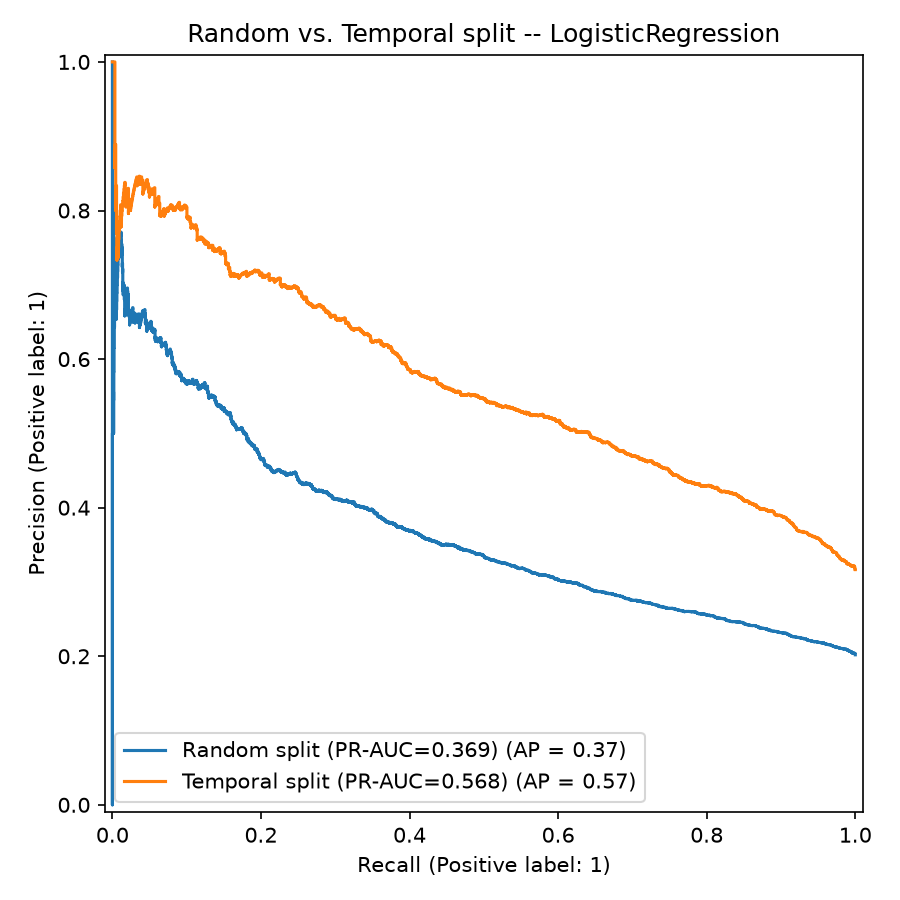
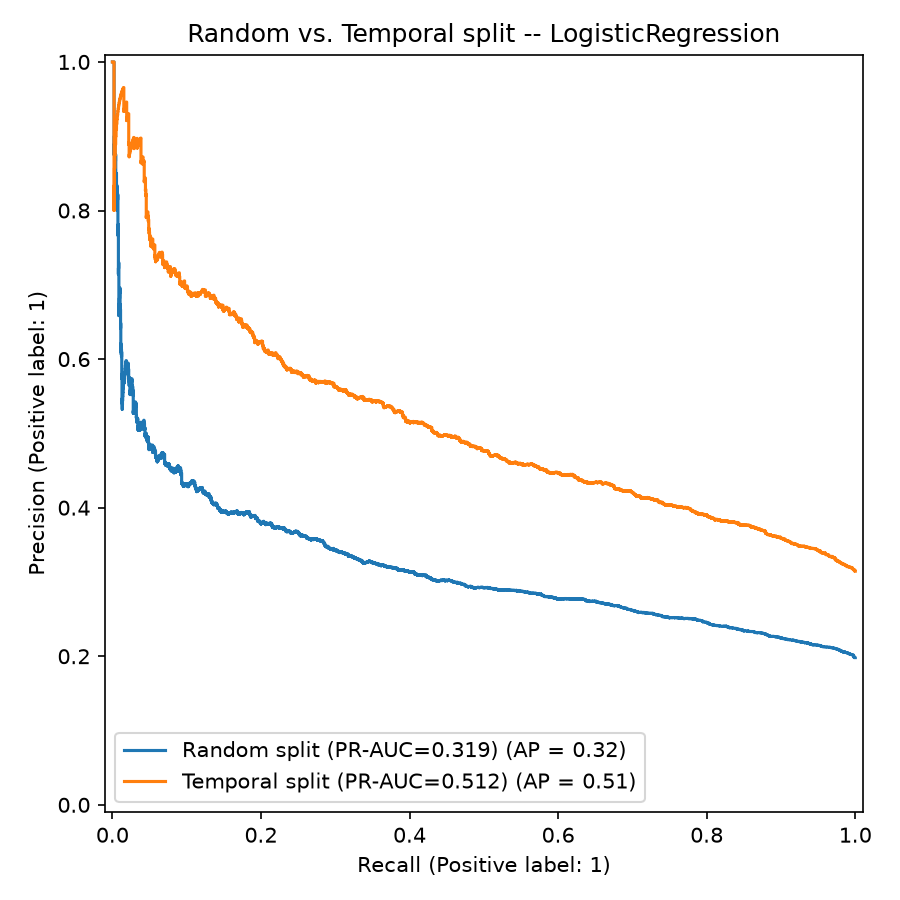
fix: sponsor history point-in-time fix, retrain v45

diff --git a/domains/pharma/dataset_builder.py b/domains/pharma/dataset_builder.py
@@ -60,19 +60,50 @@ primary_condition AS (
     ) ranked
     WHERE rn = 1
 ),
--- Point-in-time sponsor history: only trials started strictly before this one.
+-- M9-11: a historical trial's resolution date, trusted ONLY when
+-- ClinicalTrials.gov's own completionDateStruct.type is ACTUAL, not
+-- ESTIMATED. marts.fct_trials.completion_date is populated even for trials
+-- that are still RECRUITING/ACTIVE (an ESTIMATED future target date) and,
+-- critically, for most WITHDRAWN (46% ESTIMATED) and SUSPENDED (92%
+-- ESTIMATED) trials too -- an ESTIMATED date is the original planned
+-- completion target, not evidence the trial's outcome was known by that
+-- date. Mirrors M9-1's enrollment_type ACTUAL/ESTIMATED distinction.
+hist_resolution AS (
+    SELECT
+        f.nct_id,
+        f.completion_date AS resolved_completion_date
+    FROM marts.fct_trials f
+    JOIN raw.ct_studies s ON s.nct_id = f.nct_id
+    WHERE s.payload -> 'protocolSection' -> 'statusModule'
+              -> 'completionDateStruct' ->> 'type' = 'ACTUAL'
+),
+-- Point-in-time sponsor history: only trials started strictly before this
+-- one AND, per M9-11, only counted toward the termination rate once their
+-- outcome was actually resolved (ACTUAL completion date) before this
+-- trial's start_date -- not merely once their (possibly still-pending,
+-- present-day) final status happens to be known today. A prior trial whose
+-- true resolution date is unknown or postdates t.start_date contributes 0,
+-- the same treatment M1's decisions.md already documented for a
+-- still-running prior trial (see that entry for the residual limitation
+-- this doesn't eliminate).
 sponsor_history AS (
     SELECT
         t.nct_id,
         COUNT(hist.nct_id) AS sponsor_prior_trial_count,
         AVG(
-            CASE WHEN hist.overall_status IN ('TERMINATED', 'WITHDRAWN', 'SUSPENDED')
-                 THEN 1.0 ELSE 0.0 END
+            CASE
+                WHEN hr.resolved_completion_date IS NOT NULL
+                     AND hr.resolved_completion_date < t.start_date
+                     AND hist.overall_status IN ('TERMINATED', 'WITHDRAWN', 'SUSPENDED')
+                THEN 1.0
+                ELSE 0.0
+            END
         ) AS sponsor_prior_termination_rate
     FROM base t
     LEFT JOIN marts.fct_trials hist
         ON hist.sponsor_key = t.sponsor_key
         AND hist.start_date < t.start_date
+    LEFT JOIN hist_resolution hr ON hr.nct_id = hist.nct_id
     GROUP BY t.nct_id
 ),
 -- Point-in-time condition rarity, computed on each trial's PRIMARY (tie-broken)
@@ -196,7 +227,12 @@ class PharmaDatasetBuilder(TemporalDatasetBuilder):
         exactly one place. M9-1: also owns the decision to exclude
         enrollment_count -- the point-in-time joins guard row placement, but
         feature *semantics* ("is this value knowable at start_date?") is a
-        separate question this class is the only place to answer.
+        separate question this class is the only place to answer. M9-11:
+        sponsor_prior_termination_rate additionally requires a prior trial's
+        outcome to have an ACTUAL (not ESTIMATED) resolution date before this
+        trial's start_date, not merely a final status that happens to be
+        known today -- the same knowable-at-start_date semantics question
+        M9-1 raised, applied to a second feature.
     Failure mode: N/A (class-level).
     """
 
@@ -297,9 +333,11 @@ class PharmaDatasetBuilder(TemporalDatasetBuilder):
         df["has_results"] = df["has_results"].fillna(False)
         df["allocation"] = df["allocation"].fillna(policy["allocation"]["sentinel_value"])
         df["masking"] = df["masking"].fillna(policy["masking"]["sentinel_value"])
-        df["has_dmc_str"] = df["has_dmc"].map(
-            {True: "true", False: "false"}
-        ).fillna(policy["has_dmc"]["sentinel_value"])
+        df["has_dmc_str"] = (
+            df["has_dmc"]
+            .map({True: "true", False: "false"})
+            .fillna(policy["has_dmc"]["sentinel_value"])
+        )
 
         # --- Text-lite group ----------------------------------------------
         df["eligibility_criteria"] = df["eligibility_criteria"].fillna("")
@@ -314,7 +352,9 @@ class PharmaDatasetBuilder(TemporalDatasetBuilder):
         df["sponsor_class"] = df["sponsor_class"].fillna(policy["sponsor_class"]["sentinel_value"])
 
         # --- Condition group (raw; one-hot happens post-split) --------------
-        df["condition_name"] = df["condition_name"].fillna(policy["condition_name"]["sentinel_value"])
+        df["condition_name"] = df["condition_name"].fillna(
+            policy["condition_name"]["sentinel_value"]
+        )
         df["condition_rarity"] = df["condition_rarity"].fillna(0).astype(int)
 
         # --- Temporal group ---------------------------------------------
@@ -342,10 +382,7 @@ class PharmaDatasetBuilder(TemporalDatasetBuilder):
         top_n = self.config["condition_one_hot"]["top_n"]
         train_mask = df[split_col] == "train"
         top_conditions = (
-            df.loc[train_mask, "condition_name"]
-            .value_counts()
-            .head(top_n)
-            .index.tolist()
+            df.loc[train_mask, "condition_name"].value_counts().head(top_n).index.tolist()
         )
         bucketed = df["condition_name"].where(
             df["condition_name"].isin(top_conditions) | (df["condition_name"] == "unknown"),
@@ -439,7 +476,7 @@ def _count_exclusion_items(text_value: str) -> int:
     match = _EXCLUSION_HEADER_RE.search(text_value)
     if not match:
         return 0
-    tail = text_value[match.end():]
+    tail = text_value[match.end() :]
     return len(_BULLET_ITEM_RE.findall(tail))
 
 

diff --git a/domains/pharma/train_pipeline.py b/domains/pharma/train_pipeline.py
@@ -226,7 +226,9 @@ def run_controlled_ablation(
     honest_cols_full = CATEGORICAL_FEATURES + NUMERIC_FEATURES + honest_cond_cols
     leaky_cols_full = CATEGORICAL_FEATURES + NUMERIC_FEATURES + leaky_cond_cols
 
-    honest_spw = float((honest_train_oh["label"] == 0).sum() / (honest_train_oh["label"] == 1).sum())
+    honest_spw = float(
+        (honest_train_oh["label"] == 0).sum() / (honest_train_oh["label"] == 1).sum()
+    )
     honest_pipe = build(honest_cond_cols, honest_spw)
     honest_pipe.fit(honest_train_oh[honest_cols_full], honest_train_oh["label"])
     honest_proba = honest_pipe.predict_proba(honest_test_oh[honest_cols_full])[:, 1]
@@ -244,7 +246,9 @@ def run_controlled_ablation(
     print(f"Fixed test window: {window_start.date()} to {window_end.date()}, n={len(fixed_test)}")
     print(f"Honest train (n={len(honest_train)}): PR-AUC={pr_honest:.4f}, ROC-AUC={roc_honest:.4f}")
     print(f"Leaky train  (n={len(leaky_train)}): PR-AUC={pr_leaky:.4f}, ROC-AUC={roc_leaky:.4f}")
-    print(f"Delta (leaky - honest): PR-AUC={pr_leaky - pr_honest:+.4f}, ROC-AUC={roc_leaky - roc_honest:+.4f}")
+    print(
+        f"Delta (leaky - honest): PR-AUC={pr_leaky - pr_honest:+.4f}, ROC-AUC={roc_leaky - roc_honest:+.4f}"
+    )
 
     with mlflow.start_run(run_name=f"controlled_ablation_{model_type}_best"):
         mlflow.set_tag("run_type", "controlled_ablation")
@@ -334,7 +338,9 @@ def main() -> None:
         )
         studies[model_type] = study
         print(f"{model_type} best val_pr_auc={study.best_value:.4f} params={study.best_params}")
-        print(f"{model_type} best trial pr_auc_temporal={study.best_trial.user_attrs['pr_auc_temporal']:.4f}")
+        print(
+            f"{model_type} best trial pr_auc_temporal={study.best_trial.user_attrs['pr_auc_temporal']:.4f}"
+        )
 
     for model_type in ["xgboost", "lgbm"]:
         run_controlled_ablation(
